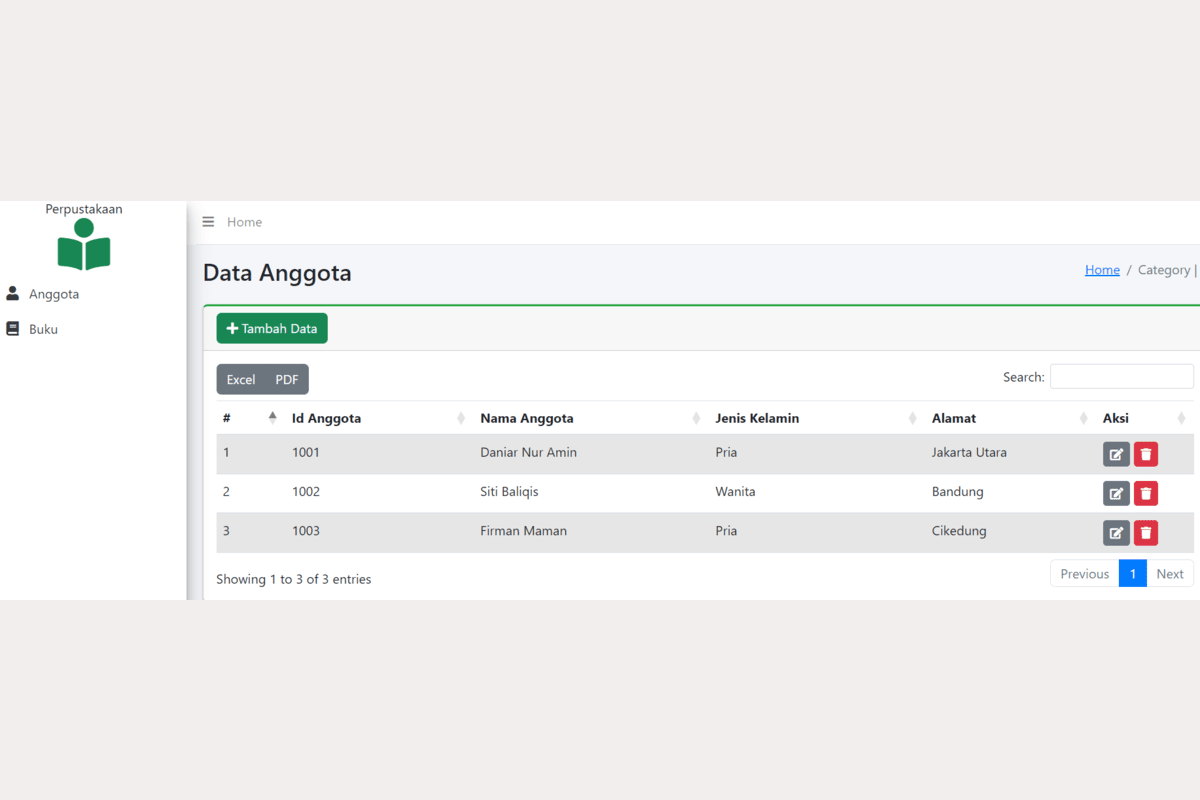
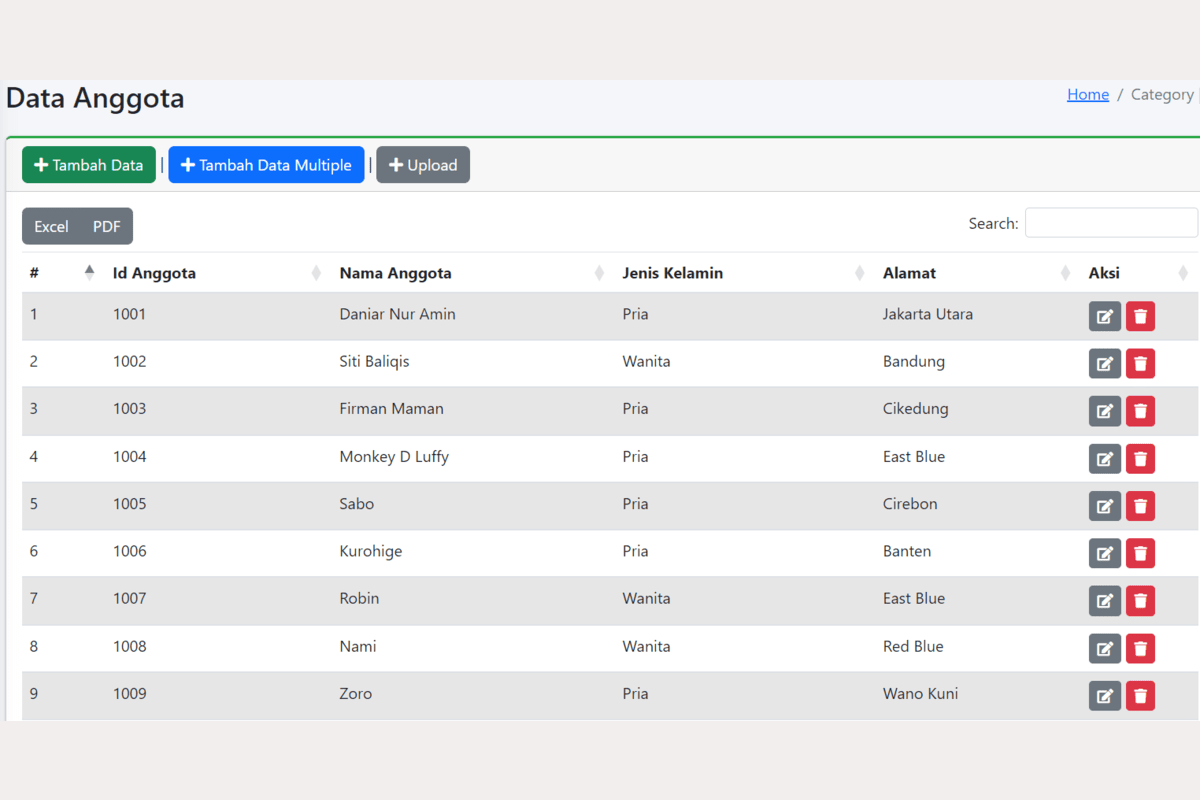
Update Simple CRUD - Library 01

diff --git a/resources/views/menu/portfolio.blade.php b/resources/views/menu/portfolio.blade.php
@@ -269,7 +269,6 @@
     </div>
 </div>
 
-{{-- Modals --}}
 <!--  Extra Large modal example -->
 <div class="modal fade bs-example-modal-xl" tabindex="-1" role="dialog" aria-labelledby="myExtraLargeModalLabel" aria-hidden="true">
     <div class="modal-dialog modal-xl">
@@ -1291,6 +1290,14 @@
                             <div class="flex-shrink-0">
                                 <i class="ri-checkbox-circle-fill text-primary"></i>
                             </div>
+                            <div class="flex-grow-1 ms-2">
+                                <p class="text-muted mb-0 fs-14">You can add data with <strong>Import Excel (Upload).</strong></p>
+                            </div>
+                        </div>
+                        <div class="d-flex mt-2 mb-2">
+                            <div class="flex-shrink-0">
+                                <i class="ri-checkbox-circle-fill text-primary"></i>
+                            </div>
                             <div class="flex-grow-1 ms-2 fs-14">
                                 <p class="text-muted mb-0">Nuget Install Microsoft : EntityFrameworkCore, EntityFrameworkCore.SqlServer, EntityFrameworkCore.Tools, AspNetCore.Mvc.Razor.RuntimeCompilation.</p>
                             </div>
@@ -1340,6 +1347,15 @@
                                         </div>
                                         <div class="swiper-slide">
                                             <img src="{{asset('assets/images/library_core/01_addmultiple4.png')}}" alt="" class="img-fluid" />
+                                        </div>
+                                        <div class="swiper-slide">
+                                            <img src="{{asset('assets/images/library_core/02_upload.png')}}" alt="" class="img-fluid" />
+                                        </div>
+                                        <div class="swiper-slide">
+                                            <img src="{{asset('assets/images/library_core/03_excel.png')}}" alt="" class="img-fluid" />
+                                        </div>
+                                        <div class="swiper-slide">
+                                            <img src="{{asset('assets/images/library_core/04_hasil.png')}}" alt="" class="img-fluid" />
                                         </div>
                                     </div>
                                     <div class="swiper-button-next bg-white shadow"></div>
